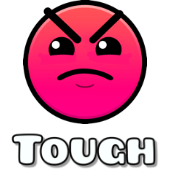
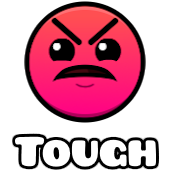
1.4.0

Changed region(s): [[0.1176, 0.0, 0.8824, 0.7353], [0.0588, 0.7647, 0.9412, 1.0], [0.4412, 0.5, 0.5588, 0.5294]]

diff --git a/src/main.cpp b/src/main.cpp
@@ -5,6 +5,10 @@ using namespace geode::prelude;
 #include <Geode/modify/LevelInfoLayer.hpp>
 #include <Geode/modify/LevelCell.hpp>
 #include <Geode/modify/RateStarsLayer.hpp>
+#include <Geode/modify/ShareLevelLayer.hpp>
+#include <Geode/modify/LevelPage.hpp>
+
+// amunjud
 
 class $modify(LevelInfoLayer) {
 	bool init(GJGameLevel* p0, bool p1) {
@@ -24,7 +28,7 @@ class $modify(LevelInfoLayer) {
 
 		mdSpr->setZOrder(zOrder);
 
-		mdSpr->setID("more-difficulties-spr"_spr);
+		// mdSpr->setID("more-difficulties-spr"_spr);
 
 		if (starCount == 4) {
 			mdSpr->setPosition(difficultyPos);
@@ -120,13 +124,13 @@ class $modify(LevelCell) {
 			// log::info("difficultyNode no no exist");
 		}
 	}
-};
+}; 
 
 class $modify(RateStarsLayer) {
 	void selectRating(CCObject* p0) {
 		RateStarsLayer::selectRating(p0);
 
-		if (auto mdSprite = static_cast<CCSprite*>(m_mainLayer->getChildByID("uproxide.more_difficulties/more-difficulties-spr"))) {
+		if (auto mdSprite = static_cast<CCSprite*>(this->getChildByID("uproxide.more_difficulties/more-difficulties-spr"))) {
 			mdSprite->removeFromParent();
 		}
 
@@ -149,29 +153,32 @@ class $modify(RateStarsLayer) {
 				mdSpr->setID("more-difficulties-spr"_spr);
 				mdSpr->setScale(difficultySize);
 
-				if (p0->getTag() == 4) {
-					mdSpr->setPosition(difficultyPos);
-					m_mainLayer->addChild(mdSpr);
-					difficultySprite->setOpacity(0);
-				} else if (p0->getTag() == 7) {
-					mdSpr->initWithSpriteFrameName((useLegacyIcons) ? "MD_Difficulty07_Legacy.png"_spr : "MD_Difficulty07.png"_spr);
-					mdSpr->setPosition(difficultyPos);
-					m_mainLayer->addChild(mdSpr);
-					difficultySprite->setOpacity(0);
-				} else if (p0->getTag() == 9) {
-					mdSpr->initWithSpriteFrameName((useLegacyIcons) ? "MD_Difficulty09_Legacy.png"_spr : "MD_Difficulty09.png"_spr);
-					mdSpr->setPosition(difficultyPos);
-					m_mainLayer->addChild(mdSpr);
-					difficultySprite->setOpacity(0);
+				switch(p0->getTag()) {
+					case 4:
+						mdSpr->setPosition(difficultyPos);
+						this->addChild(mdSpr);
+						difficultySprite->setOpacity(0);
+						break;
+					case 7:
+						mdSpr->initWithSpriteFrameName((useLegacyIcons) ? "MD_Difficulty07_Legacy.png"_spr : "MD_Difficulty07.png"_spr);
+						mdSpr->setPosition(difficultyPos);
+						this->addChild(mdSpr);
+						difficultySprite->setOpacity(0);
+						break;
+					case 9:
+						mdSpr->initWithSpriteFrameName((useLegacyIcons) ? "MD_Difficulty09_Legacy.png"_spr : "MD_Difficulty09.png"_spr);
+						mdSpr->setPosition(difficultyPos);
+						this->addChild(mdSpr);
+						difficultySprite->setOpacity(0);
+						break;
+					default:
+						break;
 				}
 			} else {
 				auto mainMenu = getChildOfType<CCMenu>(m_mainLayer, 0);
 				auto difficultyBtn = getChildOfType<CCMenuItemSpriteExtra>(mainMenu, 10);
 				auto difficultySpriteMod = getChildOfType<GJDifficultySprite>(difficultyBtn, 0);
 
-				if (auto mdSprite = static_cast<CCSprite*>(difficultyBtn->getChildByID("uproxide.more_difficulties/more-difficulties-spr"))) {
-					mdSprite->removeFromParent();
-				}
 
 				difficultySpriteMod->setOpacity(255);
 
@@ -180,29 +187,120 @@ class $modify(RateStarsLayer) {
 				int zOrder = difficultySpriteMod->getZOrder();
 				float difficultySize = difficultySpriteMod->getScale();
 
+				if (auto mdSprite = static_cast<CCSprite*>(difficultyBtn->getChildByID("uproxide.more_difficulties/more-difficulties-spr"))) {
+					mdSprite->removeFromParent();
+				}
+
 				auto mdSpr = CCSprite::createWithSpriteFrameName((useLegacyIcons) ? "MD_Difficulty04_Legacy.png"_spr : "MD_Difficulty04.png"_spr);
 
 				mdSpr->setZOrder(zOrder);
 				mdSpr->setID("more-difficulties-spr"_spr);
 				mdSpr->setScale(difficultySize);
 
-				if (p0->getTag() == 4) {
-					mdSpr->setPosition(difficultyPos);
-					difficultyBtn->addChild(mdSpr);
-					difficultySpriteMod->setOpacity(0);
-				} else if (p0->getTag() == 7) {
-					mdSpr->initWithSpriteFrameName((useLegacyIcons) ? "MD_Difficulty07_Legacy.png"_spr : "MD_Difficulty07.png"_spr);
-					mdSpr->setPosition(difficultyPos);
-					difficultyBtn->addChild(mdSpr);
-					difficultySpriteMod->setOpacity(0);
-				} else if (p0->getTag() == 9) {
-					mdSpr->initWithSpriteFrameName((useLegacyIcons) ? "MD_Difficulty09_Legacy.png"_spr : "MD_Difficulty09.png"_spr);
-					mdSpr->setPosition(difficultyPos);
-					difficultyBtn->addChild(mdSpr);
-					difficultySpriteMod->setOpacity(0);
+				switch(p0->getTag()) {
+					case 4:
+						mdSpr->setPosition(difficultyPos);
+						difficultyBtn->addChild(mdSpr);
+						difficultySpriteMod->setOpacity(0);
+						break;
+					case 7:
+						mdSpr->initWithSpriteFrameName((useLegacyIcons) ? "MD_Difficulty07_Legacy.png"_spr : "MD_Difficulty07.png"_spr);
+						mdSpr->setPosition(difficultyPos);
+						difficultyBtn->addChild(mdSpr);
+						difficultySpriteMod->setOpacity(0);
+						break;
+					case 9:
+						mdSpr->initWithSpriteFrameName((useLegacyIcons) ? "MD_Difficulty09_Legacy.png"_spr : "MD_Difficulty09.png"_spr);
+						mdSpr->setPosition(difficultyPos);
+						difficultyBtn->addChild(mdSpr);
+						difficultySpriteMod->setOpacity(0);
+						break;
+					default:
+						break;
 				}
 			}
 		}
 	}
 };
+
 */
+
+class $modify(LevelPage) {
+	static void onModify(auto& self) {
+        if (!self.setHookPriority("LevelPage::updateDynamicPage", 100001)) {
+            log::warn("uh oh");
+        }
+    }
+
+	void updateDynamicPage(GJGameLevel* p0) {
+		LevelPage::updateDynamicPage(p0);
+		
+		auto difficultySpr = static_cast<CCSprite*>(this->getChildByIDRecursive("difficulty-sprite"));
+
+		if (difficultySpr) {
+			auto useLegacyIcons = Mod::get()->getSettingValue<bool>("legacy-difficulties");
+			cocos2d::CCPoint difficultyPos = difficultySpr->getPosition();
+			int zOrder = difficultySpr->getZOrder();
+			float difficultySize = difficultySpr->getScale();
+
+			if (auto spr = static_cast<CCSprite*>(this->getChildByIDRecursive("more-difficulties-spr"_spr))) {
+				spr->removeMeAndCleanup();
+			}
+
+			auto mdSpr = CCSprite::createWithSpriteFrameName((useLegacyIcons) ? "MD_Difficulty04Small_Legacy.png"_spr : "MD_Difficulty04Small.png"_spr);
+
+			mdSpr->setZOrder(zOrder);
+			mdSpr->setID("more-difficulties-spr"_spr);
+			mdSpr->setScale(difficultySize);
+
+			switch(p0->m_levelID) {
+				case 5:
+				case 7:
+					difficultySpr->getParent()->addChild(mdSpr);
+					mdSpr->setPosition(difficultyPos);
+					difficultySpr->setVisible(false);
+					break;
+				
+				case 8:
+				case 9:		
+				case 13:
+				case 21:
+					difficultySpr->getParent()->addChild(mdSpr);
+					mdSpr->initWithSpriteFrameName((useLegacyIcons) ? "MD_Difficulty07Small_Legacy.png"_spr : "MD_Difficulty07Small.png"_spr);
+					mdSpr->setPosition(difficultyPos);
+					difficultySpr->setVisible(false);
+					break;
+					
+				case 11:
+				case 15:
+					difficultySpr->getParent()->addChild(mdSpr);
+					mdSpr->initWithSpriteFrameName((useLegacyIcons) ? "MD_Difficulty09Small_Legacy.png"_spr : "MD_Difficulty09Small.png"_spr);
+					mdSpr->setPosition(difficultyPos);
+					difficultySpr->setVisible(false);
+					break;
+
+				default:
+					/* we all gotta */ break; /* sometime */
+			} // sorry for the sin guys... best way for Main Levles...
+		}
+	}
+};
+
+/* class $modify(ShareLevelLayer) {
+	void selectRating(CCObject* p0) {
+		ShareLevelLayer::selectRating(p0);
+
+		if (auto mdSprite = static_cast<CCSprite*>(m_mainLayer->getChildByID("more-difficulties-spr"_spr))) {
+			mdSprite->removeFromParent();
+		}
+
+		if (p0 == nullptr) {
+			log::info("created ShareLevelLayer, n/a selected");
+
+
+		} else {
+
+		}
+	}
+}; */
+

diff --git a/about.md b/about.md
@@ -9,7 +9,8 @@ Adds 3 New Difficulties to the Game!
  * Cruel (9*)
 
 ## Credits
+ * Uproxide (Creator)
  * Brift (Difficulty Sprites)
- * Uproxide (Code)
+ * Krintop (Legacy Difficulty Sprites)
  * The Discord Server (Your Ideas)
 

diff --git a/changelog.md b/changelog.md
@@ -1,5 +1,7 @@
-# 1.3.1
- * iOS support, again
+# 1.4.0
+ * 2.206!
+ * Updated Legacy Sprites (Thanks Krintop!)
+ * Main Level Support :3
 
 # 1.3.0
  * Support for Unrated Levels
